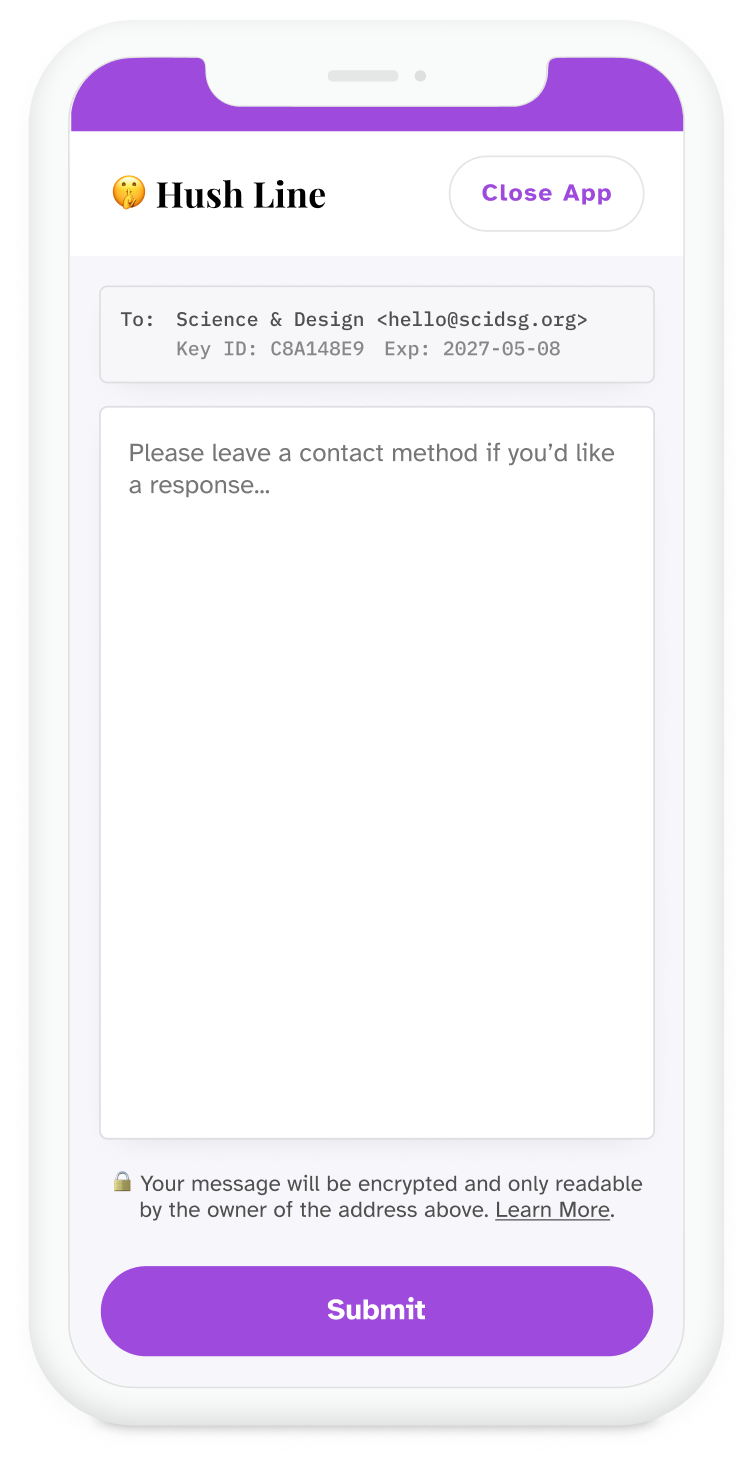
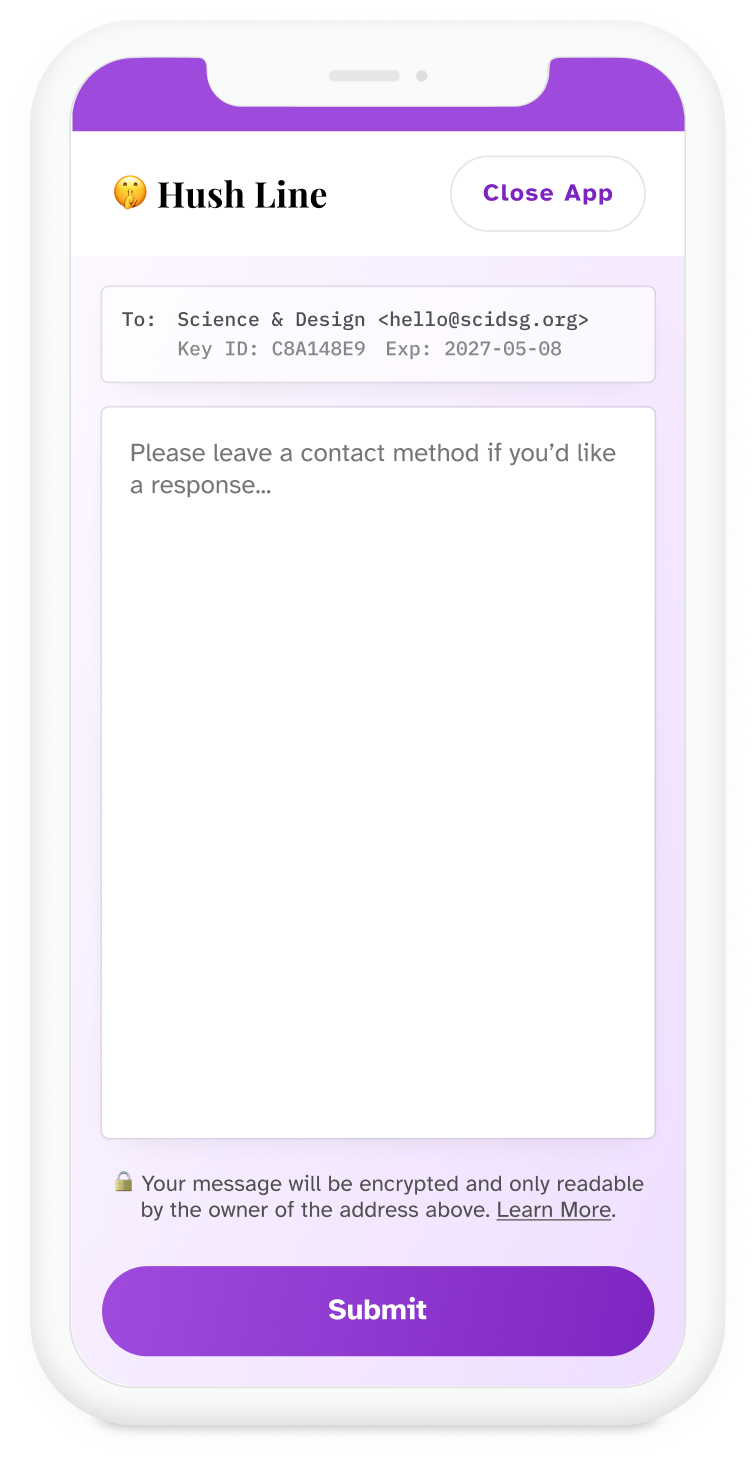
update button

diff --git a/design-system/components/button/css/button.css b/design-system/components/button/css/button.css
@@ -2,7 +2,7 @@
   .btn {
     border: var(--border-dark);
     color: var(--color-dark);
-    color: #9E4BDD;
+    color: #7D25C1;
     background-color: var(--color-light);
     background-color: white;
   }

diff --git a/design-system/components/header/css/header.css b/design-system/components/header/css/header.css
@@ -12,7 +12,7 @@
   }
 
   nav .btn.primaryBtn {
-    background-color: #9E4BDD !important;
+    background: linear-gradient(135deg, #9E4BDD 0%, #7D25C1 100%) !important;
   }
 
   nav ul li a:hover {
